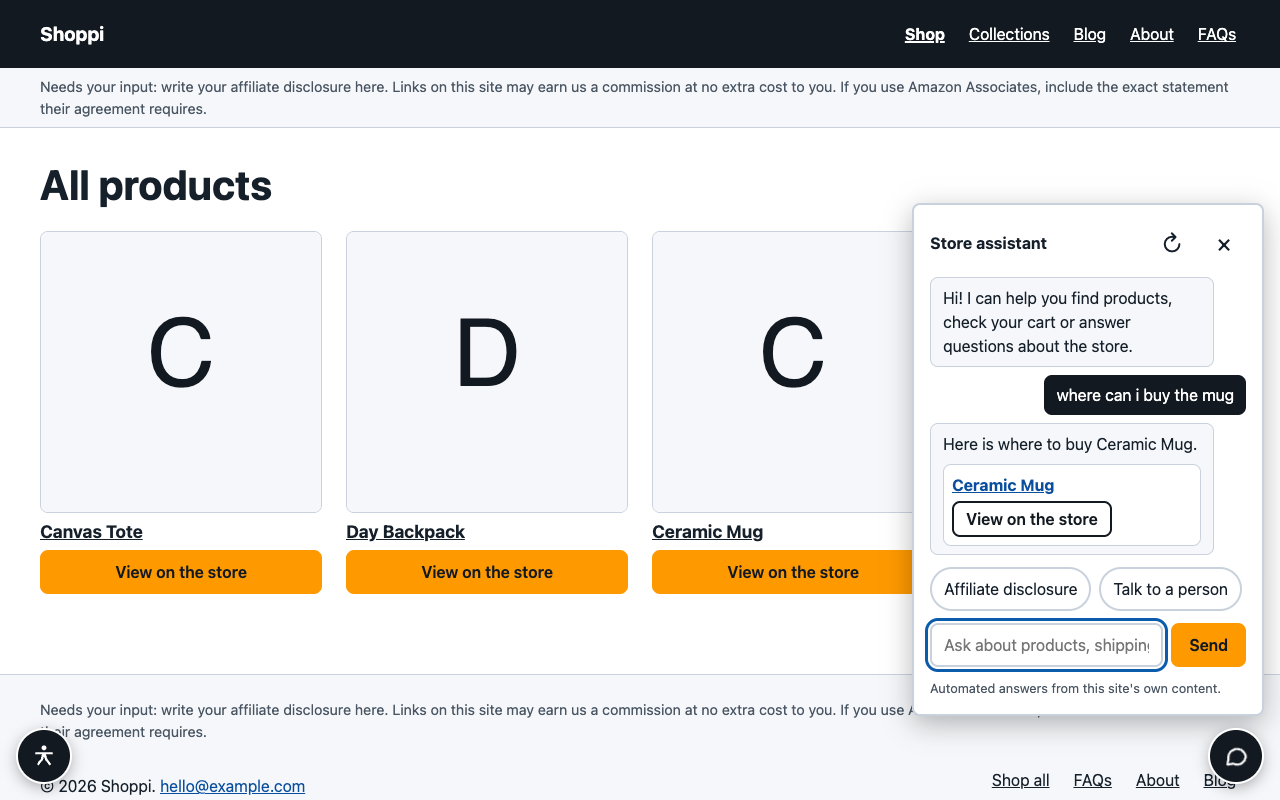
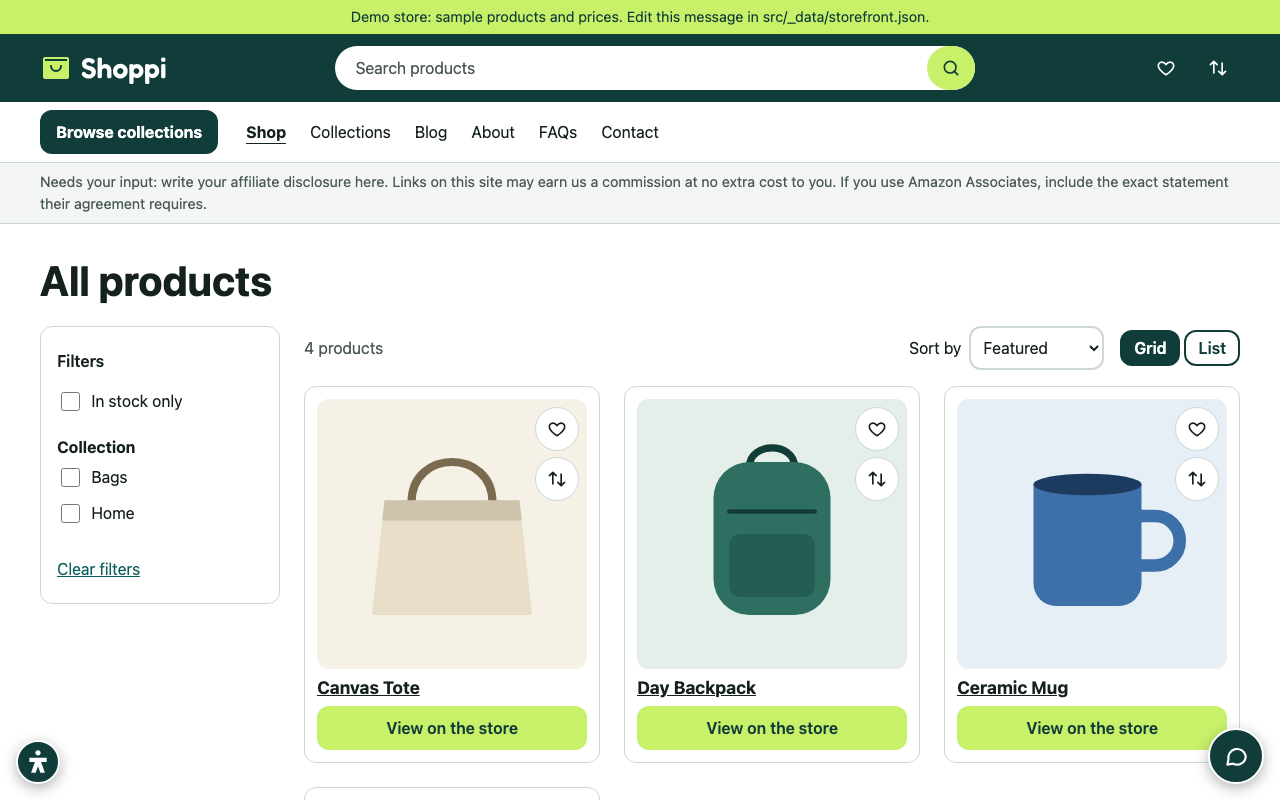
Remove AGENTS.md; refresh README screenshots
New screenshots show the current design and logo in store and affiliate
mode, without the chat panel open.

diff --git a/README.md b/README.md
@@ -10,7 +10,7 @@ It combines two earlier projects: **Jam11ty** (the original name of this repo: a
 
 | Store mode: cart, chat | Affiliate mode: outbound links, disclosure |
 |---|---|
-| ![Shoppi store mode: navy header and hero, product grid, and the chat answering a product question](docs/screenshot-store.png) | ![Shoppi affiliate mode: disclosure banner, "View on the store" buttons, and the chat linking out to a product](docs/screenshot-affiliate.png) |
+| ![Shoppi store mode: green header with the Shoppi logo and search, hero banner, collection tiles and featured products](docs/screenshot-store.png) | ![Shoppi affiliate mode: disclosure banner, shop filters and product cards with "View on the store" buttons](docs/screenshot-affiliate.png) |
 
 ## What you get
 
